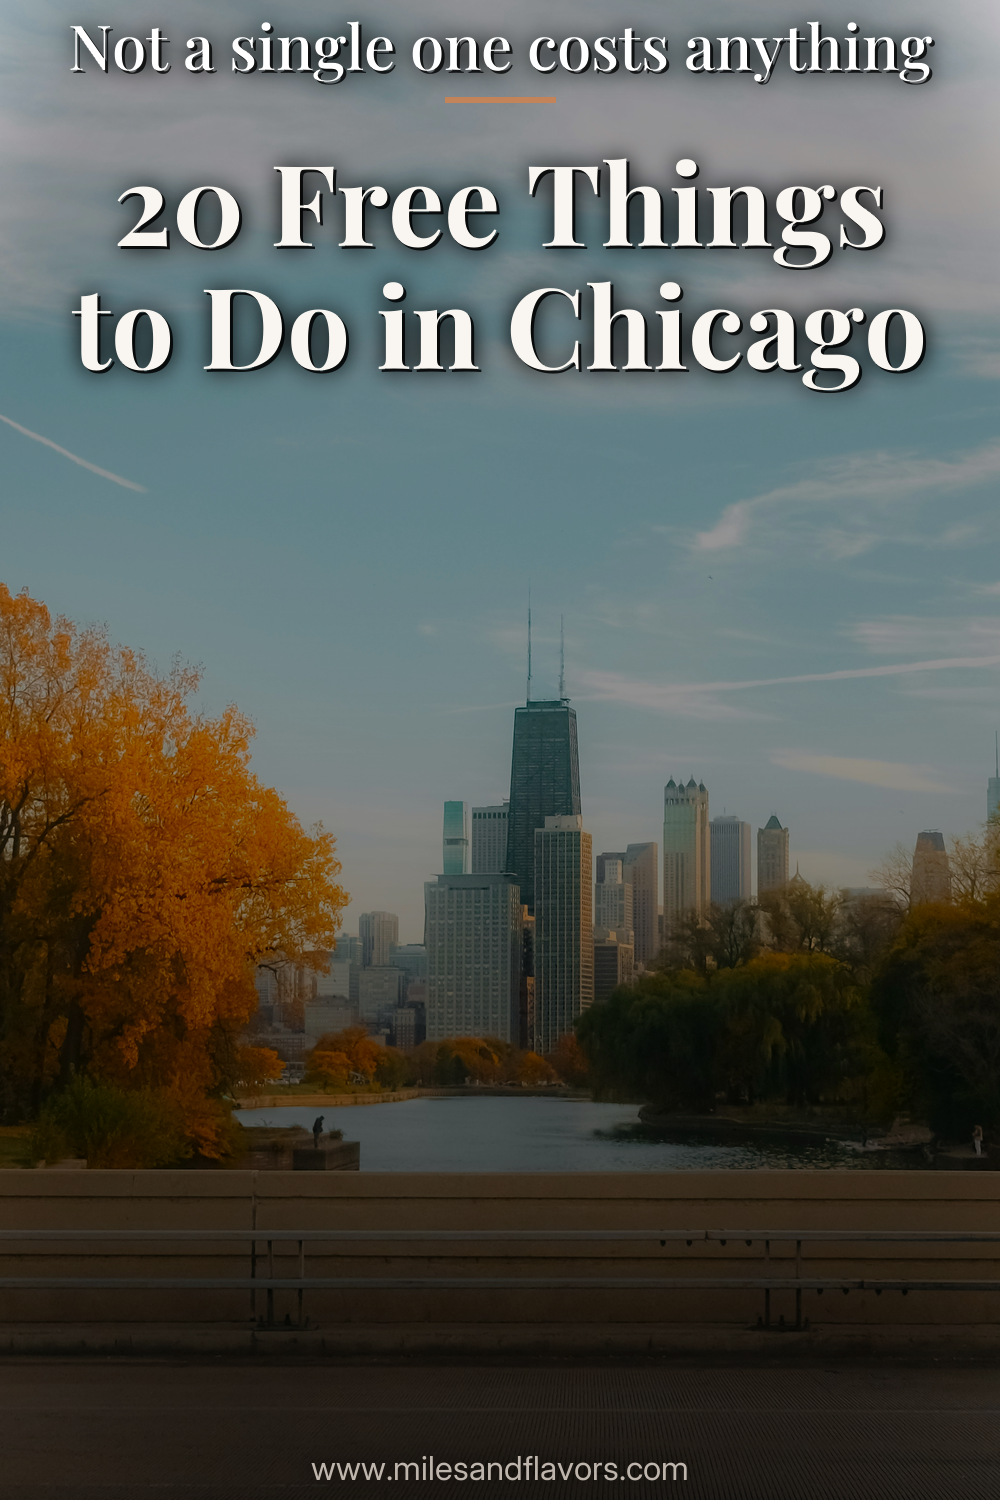
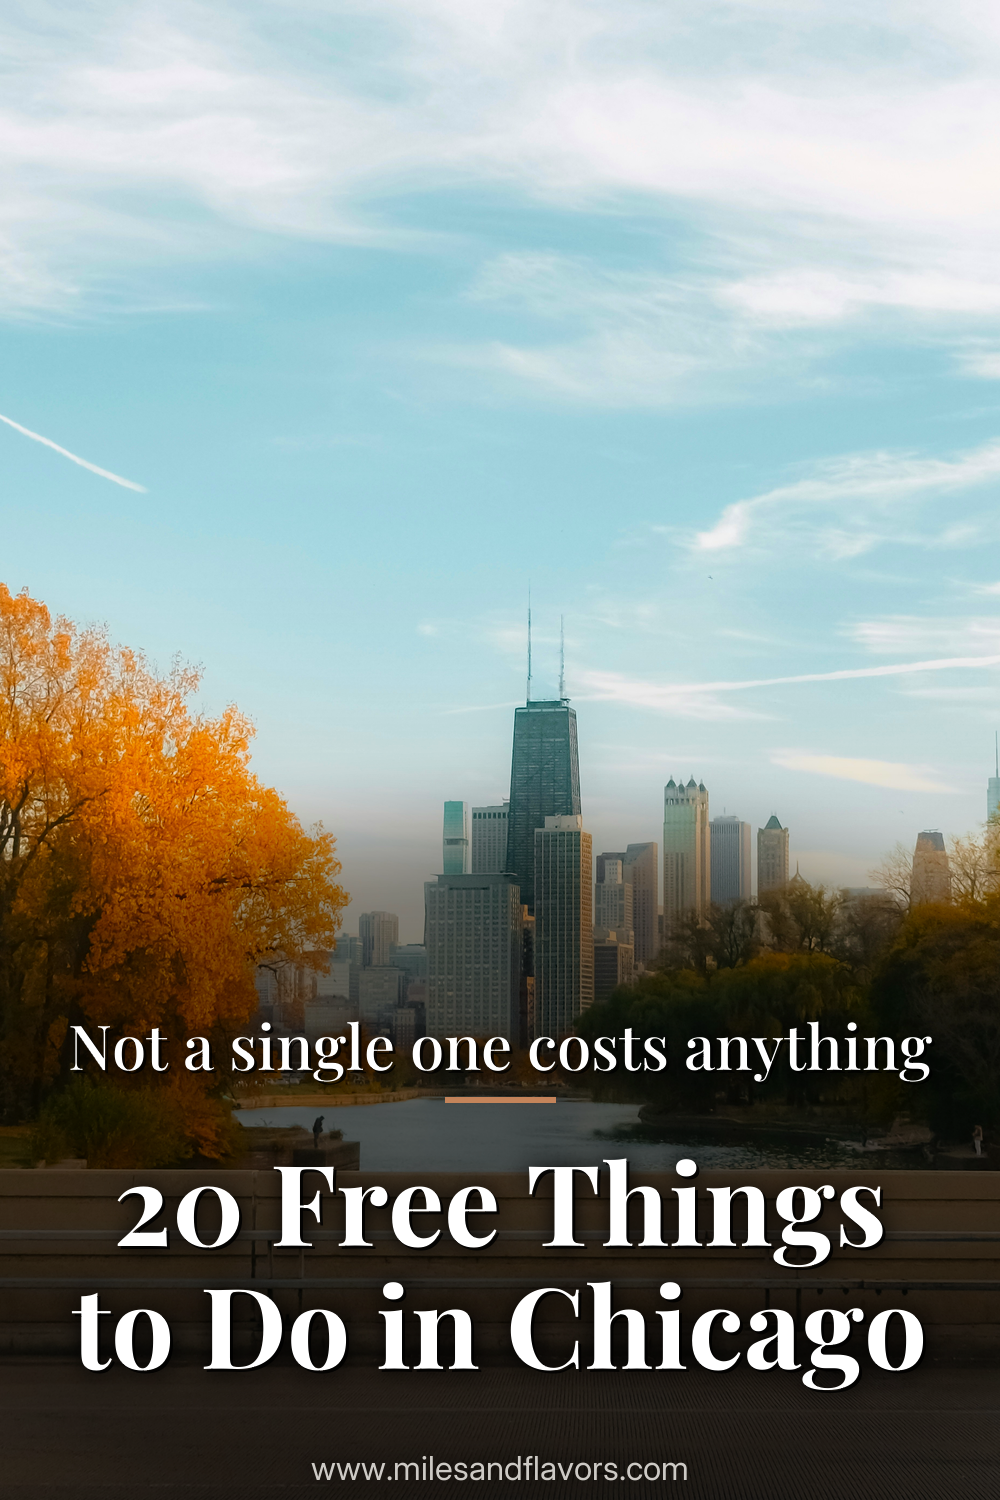
Render Aug 18-19 pin-day (7 pins) with sourced+verified Unsplash photos; fix zone-escape bug so forced Bottom placement is honored
- render.py: explicit Template zone words now pass allow_escape=False, so best_block_bottom() can no longer silently move text away from a deliberately chosen zone
- 7 new pins: NYC at Christmas, Chicago at Christmas, Chicago Hop-On Hop-Off, Barcelona at Christmas, Leavenworth Christmas Itinerary, NYC Hidden Gems, Amsterdam at Christmas — each with a distinct, visually-verified photo matching its Pin Bold/Light text
- Dropped 2 more dangling trailing colons (Leavenworth Christmas, NYC Hidden Gems)
- Re-rendered 2 pins from the previous batch that had drifted off-bottom due to the escape bug

diff --git a/render.py b/render.py
@@ -428,9 +428,13 @@ def render_one(r, col, allow_escape=True):
     # Template oszlopban nincs zóna-szó (pl. csak "Accent"), továbbra is find_best_zone() dönt.)
     template = r[col["Template"]].strip() if "Template" in col else ""
     zone_override, overlay_alpha, brightness = parse_template(template)
+    # An explicit zone word in the Template column is a deliberate placement choice —
+    # don't let best_block_bottom() escape it, even if some other part of the photo
+    # scores as "calmer". No zone word (pure auto-detect) keeps the escape behavior.
+    escape_for_this = allow_escape if zone_override is None else False
 
     photos = [load(files[start])]
-    img = render_hybrid_pin(bold, light, photos, zone_override=zone_override, overlay_alpha=overlay_alpha, brightness=brightness, allow_escape=allow_escape)
+    img = render_hybrid_pin(bold, light, photos, zone_override=zone_override, overlay_alpha=overlay_alpha, brightness=brightness, allow_escape=escape_for_this)
     datum = r[col["Datum"]].strip() if "Datum" in col else ""
     ido   = r[col["Idopont"]].strip().replace(":", "-") if "Idopont" in col else ""
     if datum and ido:
